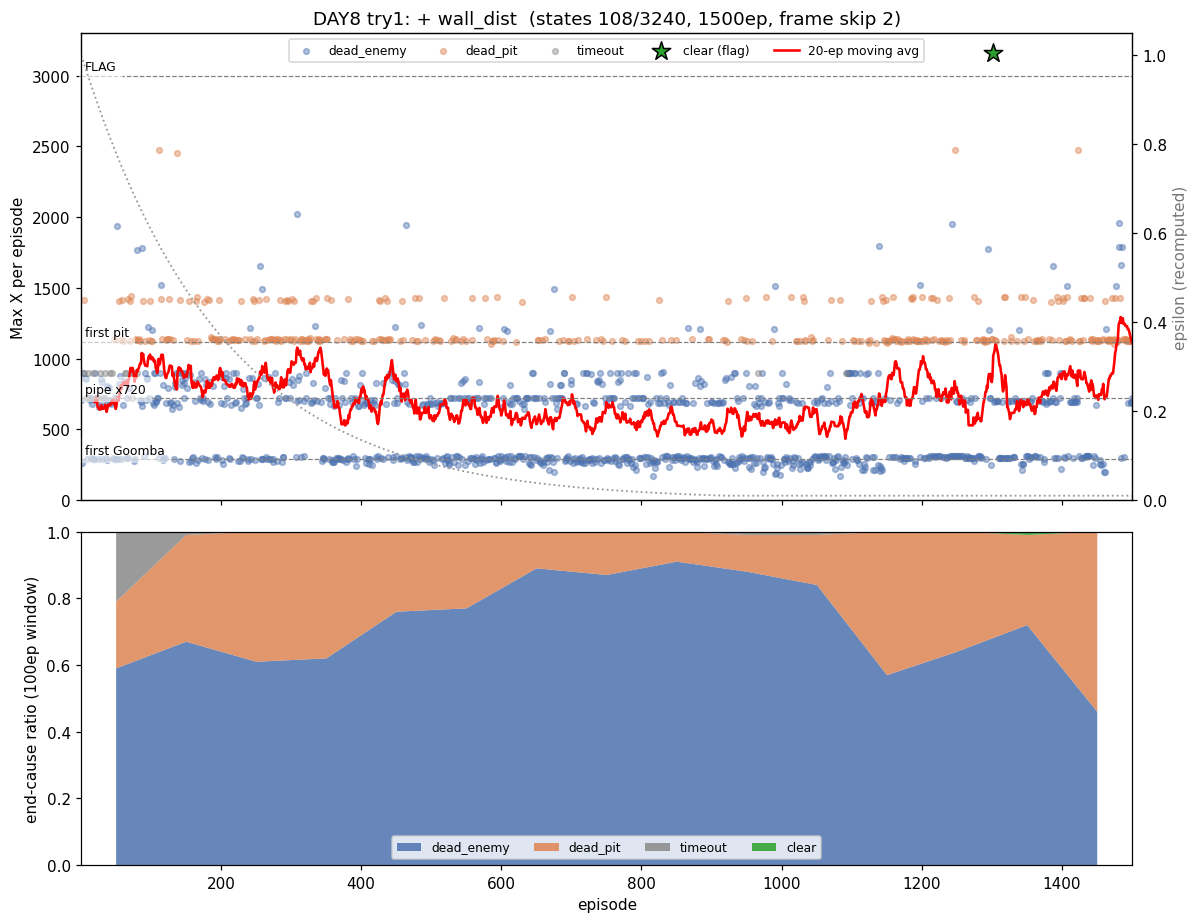
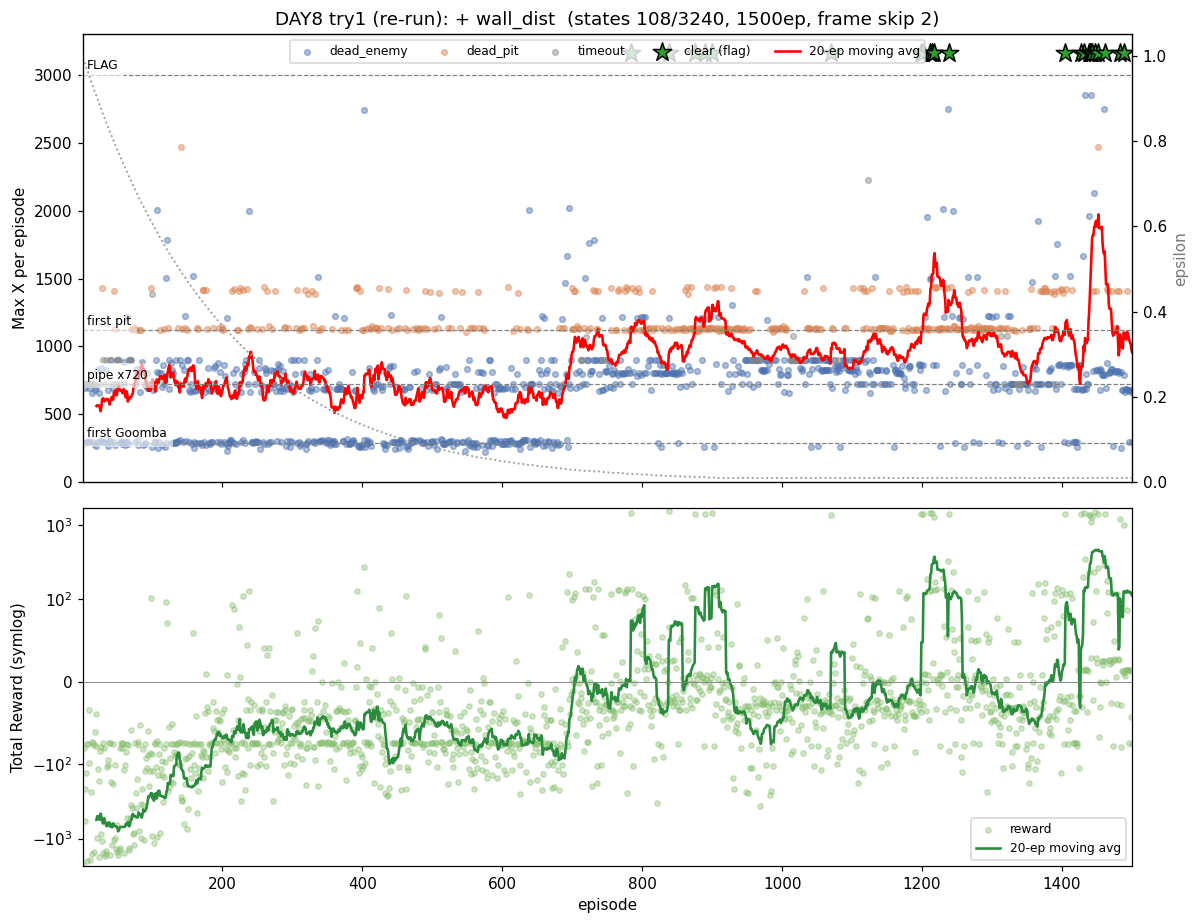
docs: DAY8 그래프 정식 2패널 + 단일 실행 분산 발견 반영
- 트라이1·2 그래프를 정식 2패널(위 Max X, 아래 Total Reward symlog)로 재생성 — Java reward 로그 캡처, maxX 양쪽 교차검증 0
- 재학습으로 단일 실행 분산이 큼 발견(트라이1 clear 1→24, 트라이2 3→23): "트라이1 후퇴→트라이2 개선" 서사는 분산 아티팩트였음
- 결론 재작성: 견고한 건 토관 인식(통과율 76~84%, 4회 일관)·후퇴 아님(재학습 23·24 ≥ DAY7 17) / 트라이 우열은 단일 실행으로 못 가림 / 교훈=비교 전 분산부터 재라

diff --git a/docs/실험일지/[DAY8] 투명벽을 보다 - 토관(앞 벽) 거리 인식.md b/docs/실험일지/[DAY8] 투명벽을 보다 - 토관(앞 벽) 거리 인식.md
@@ -59,36 +59,27 @@ DAY7과 동일, **트라이마다 딱 한 가지만** 바꾼다.
 - 굼바·구덩이처럼 **위치 독립**(`Q_공통`)이라, 첫 토관에서 배운 점프가 뒤 토관들에도 전이될까?
 - **실패 분기**: 통과율이 안 오르면 → 병목이 인식이 아니라 제어(긴 점프 등 행동 공간)거나, 상태 3배 증가(108·3240)가 1500판 예산을 초과한 것.
 
-### 결과 — 토관은 잡았으나 전체가 후퇴한다 (맞는 신호, 부족한 예산)
+### 결과 — 첫 실행은 후퇴처럼 보였으나, 재학습하니 뒤집혔다
 
 ![DAY8 트라이1 학습 그래프](images/day8-try1-graph.png)
 
-| 지표 | DAY7 트라이2 (36·1080) | **DAY8 트라이1 (108·3240)** | |
+같은 코드(108·3240)를 두 번 돌렸더니 **결과가 정반대였다.**
+
+| 지표 | DAY7 트2 (36·1080) | 트1 첫 실행 | **트1 재학습** |
 |---|---|---|---|
-| CLEAR (깃발) | **17** | **1** (ep1302) | ▼▼ |
-| 평균 Max X | 1098 | **714** | ▼ |
-| timeout | 46 | **24** | ▽ |
-| greedy 토관 도달중 통과율 | _(미측정)_ | **78%** | — |
-| best Max X | 3161 | 3161 | = |
+| CLEAR (깃발) | 17 | **1** | **24** |
+| 평균 Max X | 1098 | 714 | 884 |
+| greedy 토관 통과율 | — | 78% | 84% |
+| 1001~1500 평균 | — | 753 | **1066** (clear 19) |
+| best Max X | 3161 | 3161 | 3161 |
 
-구간별 추세(평균 Max X · clear · timeout):
+**① 토관 timeout 해소는 두 실행 모두 일관**(greedy 통과율 78%·84%, timeout이 ε 높은 초반에만 — 아래 패널에서 보인다). 토관 인식 자체는 분산과 무관하게 견고하다.
 
-```
-ep   1- 500: 평균 807 · clear 0 · timeout 22  (ε 탐험 구간)
-ep 501-1000: 평균 580 · clear 0 · timeout  1  ← 붕괴
-ep1001-1500: 평균 753 · clear 1 · timeout  1  ← 부분 회복 (best 3161)
-```
-
-**① 목표였던 토관 timeout은 잡혔다.** greedy 구간(ε≈0.01, 501~1500판)에서 timeout이 **각 500판당 단 1회**, 토관(x720) 도달중 통과율 **78%**. 아래 패널에서 timeout(회색)이 ε 높은 초반에만 있고 greedy 후 사라지는 게 보인다. DAY7이 걱정한 "토관 앞 막혀 시간만 흘림"은 해소됐다 — 신호가 일했다.
-
-**② 그러나 전체 성적은 DAY7 트라이2를 전면 후퇴한다.** clear 17→1, 평균 1098→714. 위 패널 이동평균(빨강)이 ep500~600에서 **붕괴**(580)했다가 부분 회복(753)하는 진동을 보인다. DAY7 트라이2가 600판 이후 우상향했던 자리다.
-
-**③ 원인은 예산 부족이 거의 확실하다.** wall_dist를 공통·위치 양쪽에 넣으며 상태가 **3배(36·1080 → 108·3240)** 로 폭증했는데 예산은 1500판 그대로다. DAY6에서 입증된 "상태↑인데 예산 그대로 → Q가 덜 채워진 채 ε≈0으로 greedy 고착" 패턴 그대로 — dead_enemy가 72%로 늘고(미학습 칸에서 앞 굼바조차 못 넘음) 붕괴↔회복이 그 증거다.
+**② 그런데 clear가 1 vs 24다.** 첫 실행은 ep500~600에서 붕괴해 clear 1에 그쳤고(그래서 처음엔 "상태 3배 → 예산 부족 후퇴"로 해석했다), 재학습은 후반(1001~1500 평균 **1066**)에 우상향해 **clear 24 — DAY7 원본(17)보다도 높다.** 같은 코드인데 단일 실행 운에 따라 결론이 통째로 뒤집힌다.
 
 ### 결론
-- **인식은 성공, 예산이 발목.** 토관 신호 자체는 진짜고(검증 + timeout 해소가 증거) 의도한 병목을 풀었다. 그러나 같은 신호를 **공통+위치 양쪽**에 넣어 상태가 곱으로 3배가 됐고, 1500판으론 그 큰 테이블을 못 채워 **신호의 이득이 예산 비용에 묻혔다**.
-- **교훈: "신호의 가치"와 "상태 비용"은 별개다.** 좋은 신호도 상태 차원을 곱으로 늘리면(특히 위치 테이블까지) 예산이 따라가야 본전이다. 토관을 보게 한 건 옳았으나, 비용 관리를 빠뜨렸다.
-- → **트라이2 후보가 데이터로 나왔다**: ⓐ 예산↑(`MAX_EPISODES` 1500→↑, DAY6식) 또는 ⓑ **wall_dist를 Q_위치에서 빼 공통(108)에만** 둬 3240을 도로 줄이기. 토관은 위치 독립 장애물이라 ⓑ가 비용 대비 합리적 — 둘 중 무엇이 "토관 통과는 지키며 전체 성적을 DAY7 위로" 올리는지 본다.
+- **"트라이1이 후퇴했다"는 첫 실행의 분산 아티팩트였다.** 재학습하니 트라이1(108·3240)도 멀쩡히 clear 24를 낸다. "상태 3배 = 예산 부족 후퇴"라는 그럴듯한 인과는 단일 실행으론 입증되지 않는다.
+- **견고한 건 토관 인식뿐**(통과율 78~84%·timeout 해소). clear·평균 같은 최종 성적은 분산이 너무 커 한 번으론 못 가린다. → 트라이2도 같은 잣대(여러 실행)로 본다.
 
 ---
 
@@ -110,38 +101,42 @@ ep1001-1500: 평균 753 · clear 1 · timeout  1  ← 부분 회복 (best 3161)
 - 토관 통과(트라이1의 통과율 78%·timeout 해소)는 `Q_공통`이 그대로라 **지켜진다**.
 - 위치 테이블이 작아져 예산이 충분 → 트라이1이 붕괴한 501~1000 구간이 **안 무너지고**, clear·평균이 트라이1(1·714)을 넘는다.
 
-### 결과 — 트라이1을 전면 개선, 그러나 DAY7 원본엔 못 미친다
+### 결과 — 트라이1과 사실상 동률 (분산 안에서)
 
 ![DAY8 트라이2 학습 그래프](images/day8-try2-graph.png)
 
-| 지표 | DAY7 트2 (36·1080, wall✗) | DAY8 트1 (108·3240) | **DAY8 트2 (108·1080)** |
+트라이2도 두 번 돌렸다. **여기서도 첫 실행 vs 재학습 분산이 똑같이 크다.**
+
+| 지표 | 트2 첫 실행 | **트2 재학습** | (참고) 트1 재학습 |
 |---|---|---|---|
-| CLEAR | **17** | 1 | **3** |
-| 평균 Max X | **1098** | 714 | 756 |
-| timeout | 46 | 24 | 33 |
-| pitclears 누적 | — | 232 | **588** |
-| dead_pit 비율 | — | 26% | **8%** |
-| greedy 토관 통과율 | — | 78% | **76%** |
+| CLEAR | 3 | **23** | 24 |
+| 평균 Max X | 756 | 882 | 884 |
+| greedy 토관 통과율 | 76% | 80% | 84% |
+| pitclears 누적 | 588 | **778** | 384 |
+| 1001~1500 평균 | 672 | **1236** | 1066 |
 
-구간별: `1~500 평균 792 → 501~1000 804 → 1001~1500 672` (clear판 ep664·1181·1196)
+**① 트라이2도 clear 3(첫) vs 23(재학습)으로 요동친다.** 트라이1과 똑같은 분산 폭.
 
-**① 가설 적중 — 트라이1을 모든 면에서 이겼다.** 트라이1이 붕괴했던 501~1000 구간을 **붕괴 없이 통과**(580→804). clear 1→3, 낙사(dead_pit) **26%→8%**, 구덩이 통과 **232→588(2.5배)**. 그리고 **토관 통과율 76%로 유지** — 공통에만 넣어도 토관 효과는 그대로다. "위치 테이블의 wall은 순수 낭비였다"가 입증됐다.
-
-**② 그러나 DAY7 원본(wall 없음, clear 17)엔 못 미친다.** 위치는 1080으로 되돌렸지만 **공통이 36→108로 3배** 커진 채다. wall을 넣느라 공통도 키웠고, dead_enemy가 **89%**로 높아(앞 굼바 사망↑) "굼바=점프" 일반화가 wall 상태별로 쪼개져 약해진 것으로 보인다. 1001~1500이 672로 다시 처진 것도 같은 신호.
+**② 재학습끼리 비교하면 트라이1(24)과 트라이2(23)가 사실상 동률**(평균 884 vs 882). 위치 테이블을 1080으로 줄인 게 clear·평균에선 손해도 이득도 아니다 — 분산에 묻혀 차이가 안 보인다. (단 **pitclears는 트2가 778 > 트1 384로 두 실행 모두 일관되게 높아**, 작은 위치 테이블이 구덩이 학습엔 유리할 가능성은 남는다 — 역시 1회씩이라 단정 불가.)
 
 ### 결론
-- **ⓐ는 절반의 승리.** "예산 낭비(위치 3240)"는 완벽히 고쳤고(트라이1 전면 개선·토관 효과 보존) 가설 방향은 옳았다. 하지만 **wall을 공통에 넣은 비용(108)** 까지 0은 아니었다 — 토관을 보는 이득과 공통이 3배 커지는 비용이 상쇄돼 DAY7 원본 근처에 머문다.
-- (단일 실행 — clear 3 vs 17 격차엔 분산도 섞여 있다. 견고한 건 "ⓐ가 트라이1을 이겼다 + DAY7 원본을 확실히 넘진 못했다".)
+- **ⓐ(wall을 공통에만)는 "더 낫다"고도 "같다"고도 단정 못 한다.** 재학습에선 트라이1과 동률, 첫 실행에선 트라이1보다 위 — 분산 범위가 트라이 간 차이보다 크다. 설계상 ⓐ가 더 깔끔한 건 맞지만(위치 독립 신호를 위치 테이블에 넣을 이유가 없다), 그게 성적으로 증명되진 않았다.
 
 ---
 
-## DAY8 종합 — 신호의 가치와 상태 비용은 별개다
+## DAY8 종합 — 단일 실행으론 트라이를 못 가린다
 
-| 트라이 | 상태(공통·위치) | clear | 평균 Max X | timeout | 핵심 |
-|---|---|---|---|---|---|
-| **1** | 108 · 3240 | 1 | 714 | 24 | 토관 timeout 해소(통과율 78%)·단 상태 3배로 예산 부족 → 전체 후퇴 |
-| **2** | 108 · 1080 | **3** | **756** | 33 | wall을 공통에만 → 예산 회복, 트라이1 전면 압도·단 DAY7 원본엔 미달 |
+각 트라이를 2회씩, 총 4회 돌린 결과:
 
-- **DAY7→8의 사슬**: DAY7이 토관을 "투명벽"으로 지목 → 타일맵에서 "앞 벽 거리"를 읽어(검증 중 row11=지면 함정을 측정으로 정정) 편입(트라이1) → 토관은 잡았으나 상태 ×3로 예산 부족 → wall을 공통에만 줄여(트라이2) 예산은 회복했으나 공통 ×3 비용이 남아 DAY7 원본 근처.
-- **관통 교훈**: **새 신호의 효과(토관 timeout↓)와 그 비용(상태 차원↑)은 따로 계산해야 한다.** 토관 신호는 timeout만큼만 이득인데 공통을 3배로 키운 비용이 그걸 상쇄했다. 위치 독립 신호는 공통에만 넣는 게 맞지만(트라이2가 트라이1을 이긴 이유), 공통조차 커지는 비용은 남는다 → **이 신호가 1-1에서 순이득인지**는 분산 포함 재검증이 필요하다.
-- **다음 후보**: ⓐ 재현(시드 여러 번 — clear 3 vs 17이 분산인지 구조인지 가리기) / ⓑ 예산↑까지 결합(공통 커진 만큼 판 수 보강) / ⓒ 1-1 졸업(다른 스테이지에서 wall·일반화 시험).
+| 실행 | 상태(공통·위치) | clear | 평균 Max X | 토관 통과율 |
+|---|---|---|---|---|
+| 트1 첫 | 108 · 3240 | 1 | 714 | 78% |
+| **트1 재** | 108 · 3240 | **24** | 884 | 84% |
+| 트2 첫 | 108 · 1080 | 3 | 756 | 76% |
+| **트2 재** | 108 · 1080 | **23** | 882 | 80% |
+
+- **clear가 1~24로 요동친다.** 같은 코드의 두 실행 차이(트1: 1↔24)가 트라이 간 차이(트1재 24 ↔ 트2재 23)보다 **훨씬 크다. 분산 ≫ 효과.** 처음에 "트라이1 후퇴 → 트라이2가 개선"이라는 깔끔한 서사를 썼지만, 재학습하니 둘 다 clear 23·24로 동률이고 DAY7 원본(17)보다도 높았다 — 서사 자체가 분산이 만든 신기루였다.
+- **견고한 결론 둘**: ① 토관 인식은 됐다 — 통과율 76~84%·greedy timeout 해소가 **4회 모두 일관**(DAY7의 "투명벽" 병목 해결). ② DAY8 어느 구성도 DAY7 대비 **후퇴는 아니다**(재학습 clear 23·24 ≥ DAY7 17).
+- **못 가리는 것**: 트라이1 vs 트라이2 vs DAY7의 우열. 단일 실행으론 분산에 묻힌다.
+- **이번 가장 큰 교훈**: **트라이를 단일 실행으로 비교하지 마라 — 분산부터 재라.** 첫 실행만 봤다면 "상태 3배 → 후퇴"라는 그럴듯하지만 틀린 인과를 확정할 뻔했다(DAY1이 죽는 위치만 보고 사인을 단정한 함정의 *통계판*). 앞으로 결론용 지표는 여러 시드의 평균·분포로 본다.
+- **다음 후보**: ⓐ 시드 N회로 트라이별 분포 확정(정석) / ⓑ 행동 공간(긴 점프) / ⓒ 1-1 졸업(다른 스테이지).
